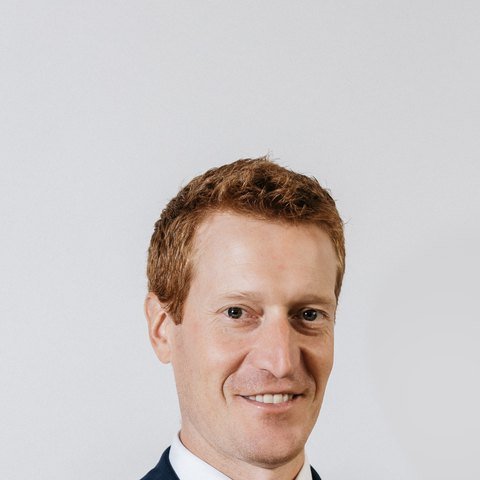
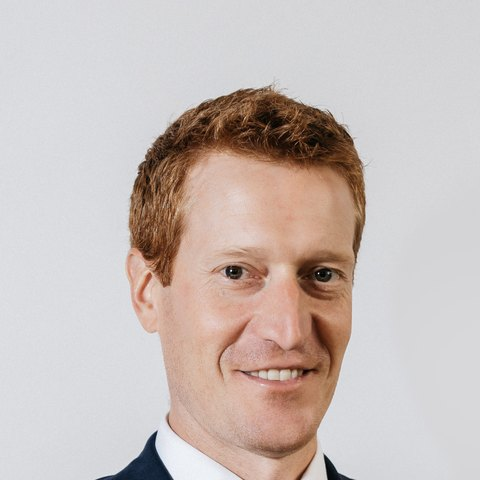
v25: four faces re-cropped tighter (Gassner, Slattery, Jowett, Boyd)
Adam's eye on v24: heads should fill most of the circle. Alex Gassner,
Andrew Slattery and Dan Jowett re-cropped tighter with the face centred;
Chris Boyd re-centred. Same 480px JPEG treatment, same ids.

Claude-Session: https://claude.ai/code/session_01Vp2MSeja85MyWRRTfRFrVN

Changed region(s): [[0.1875, 0.1562, 0.7812, 1.0]]

diff --git a/js/config.js b/js/config.js
@@ -35,7 +35,7 @@ export const EVENT_ID = 'nc-2026'
  *  update is announced only after a real person has confirmed the new code
  *  actually loads, not at the moment a push leaves the laptop.
  */
-export const BUILD = 24
+export const BUILD = 25
 
 // SDK is pinned to 12.16.0 (verified present on gstatic 2026-07-27). Import
 // specifiers must be literal strings, so the version is written into each
